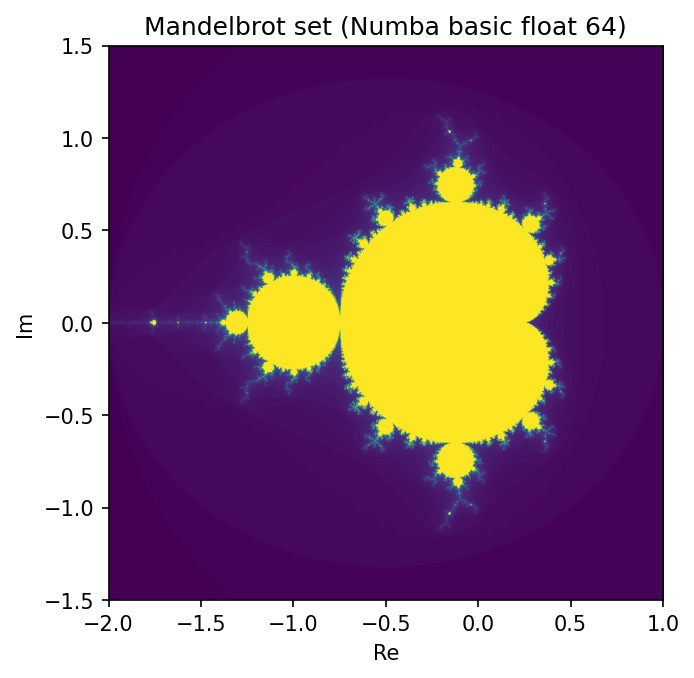
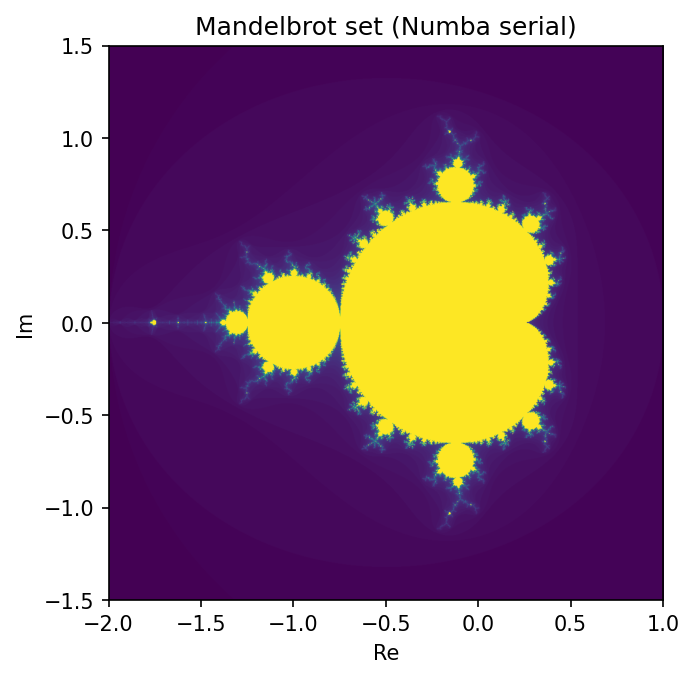
A bit of clean up, but also implemented mandelbrot_serial

Changed region(s): [[0.2118, 0.0, 0.9078, 0.0619]]

diff --git a/mandelbrot.py b/mandelbrot.py
@@ -6,6 +6,14 @@ import io
 import time
 from numba import float64, njit, prange
 
+# Parameters
+width = 1024
+height = 1024
+max_iter = 100
+xmin, xmax = -2.0, 1.0
+ymin, ymax = -1.5, 1.5
+
+# ------ L01 to L03 MP1 ------
 
 def time_call(label, func, *args):
     t0 = time.perf_counter()
@@ -200,40 +208,6 @@ def mandelbrot_numba_basic(width, height, max_iter, xmin, xmax, ymin, ymax, dtyp
     return mandelbrot_numba_basic_f64(width, height, max_iter, xmin, xmax, ymin, ymax)
 
 
-@njit(parallel=True, fastmath=True)
-def mandelbrot_numba(width, height, max_iter, xmin, xmax, ymin, ymax):
-    img = np.empty((height, width), dtype=np.int32)
-
-    for y in prange(height):
-        im = ymin + (y / (height - 1)) * (ymax - ymin)
-        for x in range(width):
-            re = xmin + (x / (width - 1)) * (xmax - xmin)
-
-            zr = 0.0
-            zi = 0.0
-            cr = re
-            ci = im
-
-            n = 0
-            while n < max_iter and (zr * zr + zi * zi) <= 4.0:
-                zr_new = zr * zr - zi * zi + cr
-                zi = 2.0 * zr * zi + ci
-                zr = zr_new
-                n += 1
-
-            img[y, x] = n
-
-    return img
-
-
-# Parameters
-width = 1024
-height = 1024
-max_iter = 100
-xmin, xmax = -2.0, 1.0
-ymin, ymax = -1.5, 1.5
-
-
 # Profiling & Timing
 
 # Line-profile naive
@@ -279,47 +253,54 @@ time_call(
     width, height, max_iter, xmin, xmax, ymin, ymax, np.float64
 )
 
-# Numba parallel and profiling (warmed up)
-mandelbrot_numba(width, height, max_iter, xmin, xmax, ymin, ymax)
+# ------ L01 to L03 MP1 ------
+# ------ L04 MP2 ------
+@njit(fastmath=True)
+def mandelbrot_pixel(c_real, c_imag, max_iter):
+    zr = 0.0
+    zi = 0.0
 
-numba_data = profile_call(
-    "mandelbrot (Numba, warmed up)",
-    mandelbrot_numba,
+    n = 0
+    while n < max_iter and (zr * zr + zi * zi) <= 4.0:
+        zr_new = zr * zr - zi * zi + c_real
+        zi = 2.0 * zr * zi + c_imag
+        zr = zr_new
+        n += 1
+
+    return n
+
+
+@njit(fastmath=True)
+def mandelbrot_chunk(row_start, row_end, width, height, max_iter, xmin, xmax, ymin, ymax):
+    img = np.empty((row_end - row_start, width), dtype=np.int32)
+
+    for y in range(row_start, row_end):
+        im = ymin + (y / (height - 1)) * (ymax - ymin)
+
+        for x in range(width):
+            re = xmin + (x / (width - 1)) * (xmax - xmin)
+            img[y - row_start, x] = mandelbrot_pixel(re, im, max_iter)
+
+    return img
+
+
+def mandelbrot_serial(width, height, max_iter, xmin, xmax, ymin, ymax):
+    return mandelbrot_chunk(0, height, width, height, max_iter, xmin, xmax, ymin, ymax)
+
+warm_args = (256, 256, max_iter, xmin, xmax, ymin, ymax)
+mandelbrot_serial(*warm_args)
+
+numba_serial = profile_call(
+    "mandelbrot (Numba @njit naive loop, warmed up)",
+    mandelbrot_serial,
     width, height, max_iter, xmin, xmax, ymin, ymax,
     top=100
 )
 
 time_call(
-    "mandelbrot (Numba, warmed up)",
-    mandelbrot_numba,
+    "mandelbrot (Numba @njit naive loop, warmed up)",
+    mandelbrot_serial,
     width, height, max_iter, xmin, xmax, ymin, ymax
 )
 
-# Plotting
-plt.figure()
-plt.imshow(naive_data, extent=(xmin, xmax, ymin, ymax), origin="lower")
-plt.title("Mandelbrot set (naive Python)")
-plt.xlabel("Re")
-plt.ylabel("Im")
-plt.savefig("mandelbrot_naive.png", dpi=150, bbox_inches="tight")
-
-plt.figure()
-plt.imshow(numpy_data, extent=(xmin, xmax, ymin, ymax), origin="lower")
-plt.title("Mandelbrot set (NumPy)")
-plt.xlabel("Re")
-plt.ylabel("Im")
-plt.savefig("mandelbrot_numpy.png", dpi=150, bbox_inches="tight")
-
-plt.figure()
-plt.imshow(numba_basic, extent=(xmin, xmax, ymin, ymax), origin="lower")
-plt.title("Mandelbrot set (Numba basic float 64)")
-plt.xlabel("Re")
-plt.ylabel("Im")
-plt.savefig("mandelbrot_numba_basic.png", dpi=150, bbox_inches="tight")
-
-plt.figure()
-plt.imshow(numba_data, extent=(xmin, xmax, ymin, ymax), origin="lower")
-plt.title("Mandelbrot set (Numba)")
-plt.xlabel("Re")
-plt.ylabel("Im")
-plt.savefig("mandelbrot_numba_parallel.png", dpi=150, bbox_inches="tight")
+# ------ L04 MP2 ------
